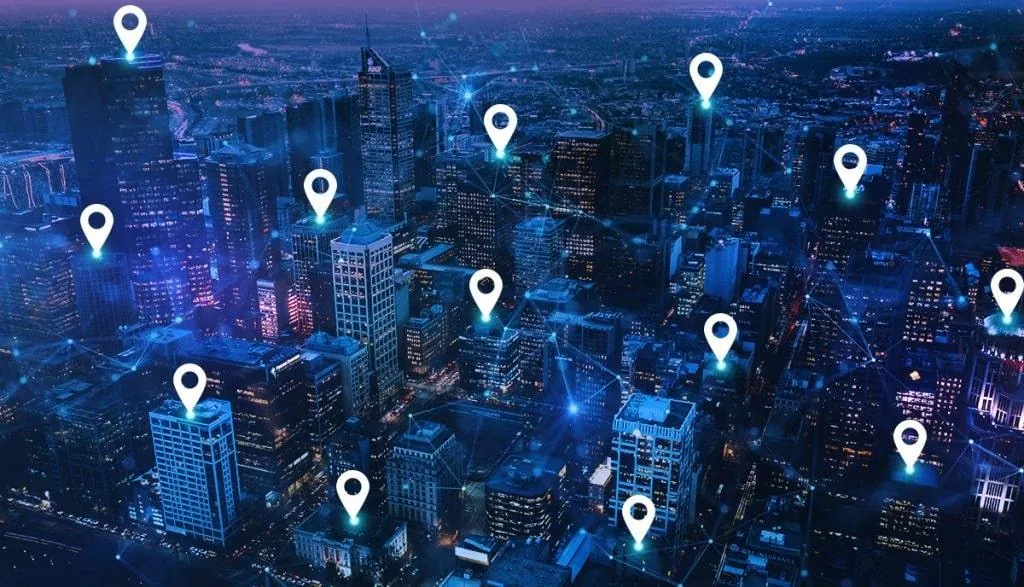
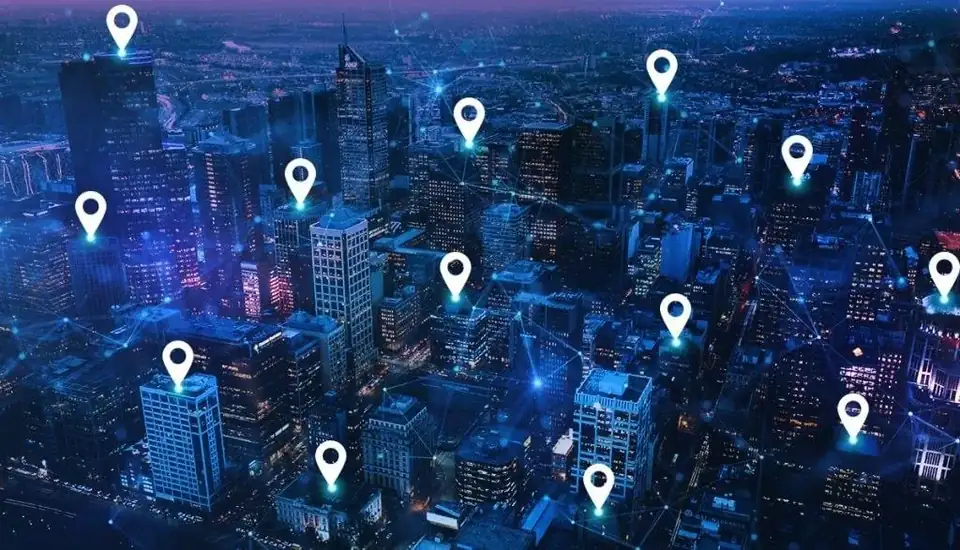
alteraçao12

diff --git a/index.html b/index.html
@@ -1319,15 +1319,7 @@
       >
         <!-- Background Image for Section 05 (dobra5 .png) -->
         <div class="absolute inset-0 pointer-events-none overflow-hidden z-0 select-none" aria-hidden="true">
-          <img
-            src="assets/images/bg-dobra5.webp"
-            alt=""
-            width="1672"
-            height="941"
-            loading="lazy"
-            decoding="async"
-            class="w-full h-full object-cover object-center opacity-40 md:opacity-50 filter brightness-105 contrast-110 will-change-transform"
-          />
+          <img src="assets/images/bg-dobra5.webp" alt="" width="960" height="540" loading="lazy" decoding="async" class="w-full h-full object-cover object-center opacity-40 md:opacity-50 filter brightness-105 contrast-110 will-change-transform" />
           <!-- Cinematic Gradient Overlays to blend with surrounding sections & enhance card contrast -->
           <div class="absolute inset-0 bg-gradient-to-b from-[#030714] via-[#040816]/60 to-[#030714]"></div>
           <div class="absolute inset-0 bg-[radial-gradient(ellipse_at_center,transparent_0%,rgba(3,7,20,0.65)_100%)]"></div>
@@ -1988,15 +1980,7 @@
                 <div class="s7-parallax-layer-1 relative min-h-[380px] sm:min-h-[460px] lg:min-h-[520px] overflow-hidden bg-gradient-to-br from-[#061430] via-[#050f24] to-[#040816] transition-transform duration-700 ease-out group-hover:scale-[1.01]">
                   
                   <!-- Real Website Screenshot Image Preview -->
-                  <img
-                    src="assets/images/preview-fernando-corretor.webp"
-                    alt="Fernando Corretor - Website de Alto Padrão"
-                    width="1376"
-                    height="768"
-                    loading="lazy"
-                    decoding="async"
-                    class="w-full h-full object-cover object-top filter brightness-95 contrast-105 group-hover:brightness-105 group-hover:scale-105 transition-all duration-700 block"
-                  />
+                  <img src="assets/images/preview-fernando-corretor.webp" alt="Fernando Corretor - Website de Alto Padrão" width="960" height="536" loading="lazy" decoding="async" class="w-full h-full object-cover object-top filter brightness-95 contrast-105 group-hover:brightness-105 group-hover:scale-105 transition-all duration-700 block" />
 
                   <!-- Elegant Gradient Vignette Overlays for Depth & Readability -->
                   <div class="absolute inset-0 bg-gradient-to-t from-[#040816] via-[#040816]/20 to-transparent pointer-events-none"></div>
@@ -2099,15 +2083,7 @@
                 <div class="s7-parallax-layer-2 relative min-h-[420px] sm:min-h-[480px] lg:min-h-[540px] p-6 sm:p-10 flex flex-col justify-between overflow-hidden bg-gradient-to-br from-[#051c36] via-[#04162a] to-[#030914] transition-transform duration-700 ease-out group-hover:scale-[1.01]">
                   
                   <!-- Real Dark GPS Cartography Background Image -->
-                  <img
-                    src="assets/images/preview-google-maps.webp"
-                    alt="Google Maps Local Intelligence UI"
-                    width="1376"
-                    height="768"
-                    loading="lazy"
-                    decoding="async"
-                    class="absolute inset-0 w-full h-full object-cover object-center opacity-30 filter brightness-90 contrast-125 pointer-events-none"
-                  />
+                  <img src="assets/images/preview-google-maps.webp" alt="Google Maps Local Intelligence UI" width="960" height="536" loading="lazy" decoding="async" class="absolute inset-0 w-full h-full object-cover object-center opacity-30 filter brightness-90 contrast-125 pointer-events-none" />
 
                   <!-- Deep Atmosphere & Grid Overlays -->
                   <div class="absolute inset-0 bg-gradient-to-t from-[#030914] via-[#030914]/80 to-[#030914]/60 pointer-events-none"></div>
@@ -2266,15 +2242,7 @@
       >
         <!-- Background Image for Section 08 (dobra8 .jpeg) -->
         <div class="absolute inset-0 pointer-events-none overflow-hidden z-0 select-none" aria-hidden="true">
-          <img
-            src="assets/images/bg-dobra8.webp"
-            alt=""
-            width="1024"
-            height="587"
-            loading="lazy"
-            decoding="async"
-            class="w-full h-full object-cover object-center opacity-40 md:opacity-50 filter brightness-105 contrast-110 will-change-transform"
-          />
+          <img src="assets/images/bg-dobra8.webp" alt="" width="960" height="550" loading="lazy" decoding="async" class="w-full h-full object-cover object-center opacity-40 md:opacity-50 filter brightness-105 contrast-110 will-change-transform" />
           <!-- Cinematic Gradient Overlays to blend seamlessly with surrounding sections & enhance contrast -->
           <div class="absolute inset-0 bg-gradient-to-b from-[#040714] via-[#04091c]/70 to-[#030612]"></div>
           <div class="absolute inset-0 bg-[radial-gradient(ellipse_at_center,transparent_0%,rgba(3,6,18,0.7)_100%)]"></div>
@@ -2598,15 +2566,7 @@
       >
         <!-- Background Image for Section 09 (dobra9.png) -->
         <div class="absolute inset-0 pointer-events-none overflow-hidden z-0 select-none" aria-hidden="true">
-          <img
-            src="assets/images/bg-dobra9.webp"
-            alt=""
-            width="1672"
-            height="941"
-            loading="lazy"
-            decoding="async"
-            class="w-full h-full object-cover object-center opacity-40 md:opacity-50 filter brightness-105 contrast-110 will-change-transform"
-          />
+          <img src="assets/images/bg-dobra9.webp" alt="" width="960" height="540" loading="lazy" decoding="async" class="w-full h-full object-cover object-center opacity-40 md:opacity-50 filter brightness-105 contrast-110 will-change-transform" />
           <!-- Cinematic Gradient Overlays to blend seamlessly with surrounding sections & enhance contrast -->
           <div class="absolute inset-0 bg-gradient-to-b from-[#030612] via-[#04091a]/70 to-[#040816]"></div>
           <div class="absolute inset-0 bg-[radial-gradient(ellipse_at_center,transparent_0%,rgba(3,6,18,0.7)_100%)]"></div>
